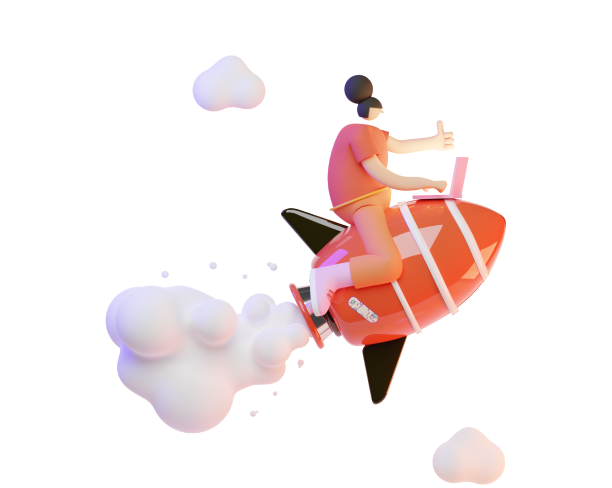
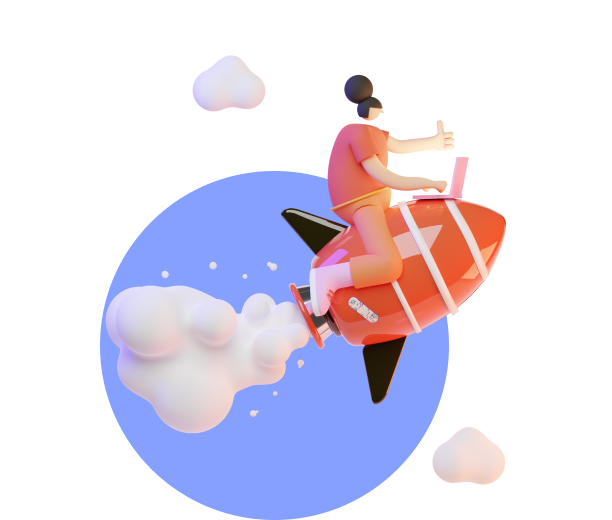
Add files via upload

diff --git a/task/FINAL PROJECT/styles/style.css b/task/FINAL PROJECT/styles/style.css
@@ -27,6 +27,9 @@ header {
     align-items: center;
     padding: 28px 0;
     
+   
+    
+    
 }
 .header-menu{
     display: none;
@@ -144,12 +147,55 @@ header {
     padding: 24px 0;
 }
 
+.search-form {
+    width: 300px;
+    position: relative;
+    
+}
+.search {
+    border:none;
+    float: left;
+    width: 100%;
+    border-radius: 100px;
+    padding: 32px;
+    height: 72px;
+}
+.button-search {
+    border:none;
+    background: linear-gradient(180deg, #FFC27A 0%, #FFA337 100%);
+    border-radius: 100px;
+    position: absolute;
+    right: 0;
+    width: 72px;
+    height: 72px;
+}
+.button-search:hover {
+    background: linear-gradient(180deg, #FFB0BA 0%, #F9475D 100%);;
+    cursor:pointer;
+}
+
+
+
+
+
+
+
+
+
+
+
+
+
+
+
+
+
 
 .main-wrap img {
-    width: 300px;
-    height: 300px;
-    margin-bottom: 30px;
-    margin-top: -70px;
+    width: 350px;
+    height: 270px;
+    margin-bottom: 50px;
+    
 }
 form {
     display: flex;
@@ -213,6 +259,8 @@ span{
     display: flex;
     column-gap: 24px;
     overflow: scroll;
+    padding-left: 10px;
+    margin-bottom: 50px;
     
 }
 
@@ -227,8 +275,7 @@ span{
     color: black;
     box-shadow:1px 1px 10px gray,
     inset 0px -1px 1px gray;
-    margin-top: 50px;
-    margin-bottom: 100px;
+    margin-top: 50px;  
     position: relative;
 }
 
@@ -344,6 +391,7 @@ figcaption {
     box-shadow:1px 1px 10px gray,
     inset 0px -1px 1px gray;
     margin-top: 50px;
+    margin-bottom: 10px;
     position: relative;
 
 }
@@ -362,6 +410,8 @@ figcaption {
     display: flex;
     column-gap: 24px;
     overflow: scroll;
+    padding-left: 10px;
+    margin-bottom: 50px;
     
 }
 
@@ -377,6 +427,8 @@ figcaption {
     display: flex;
     flex-wrap: wrap;
     row-gap: 10px;
+    margin-bottom: 50px;
+    
 
 }
 
@@ -389,6 +441,7 @@ figcaption {
     width:400px;
     height: 286px;
     margin: 0 auto;
+    
     
     
 
@@ -409,6 +462,30 @@ figcaption {
     align-items: center;
     column-gap: 10px;
 }
+
+.join {
+    margin-top: 50px;
+    display: flex;
+    flex-direction: column;   
+    padding-bottom: 50px;
+    text-align: center;
+}
+.join p:nth-of-type(1) {
+    font-size: 24px;
+
+}
+.join p:nth-of-type(2) {
+    font-size: 16px;
+    padding: 24px 0;
+
+}
+.join img {
+    width: 320px;
+    height: 320px;
+}
+
+
+
 
 
 
@@ -482,6 +559,7 @@ figcaption {
 
     .content img {
         margin-left: 0px;
+        
     }
 
 
@@ -492,9 +570,18 @@ figcaption {
         display: none;
     }
     .header-menu nav a{
+        padding: 0 10px;
+        margin: 0 10px;
         color:white;
         text-decoration: none;
-        padding-left: 48px;
+        
+    }
+    .header-menu nav a:hover {
+        border-width: 0 0 1px 0;
+        border-color: #FFA337;
+        border-style: solid;
+        transition: .5s ease;
+        
     }
     
     
@@ -511,6 +598,11 @@ figcaption {
         padding:0 8px;
     
     }
+    .logIn:hover {
+        cursor: pointer;
+        color: #FFA337;
+
+    }
     .signUp {
         display: flex;
         align-items: center;
@@ -524,8 +616,23 @@ figcaption {
         margin-left: 24px;
     
     }
+    .signUp:hover {
+        background: linear-gradient(180deg, #FFB0BA 0%, #F9475D 100%);;
+        cursor:pointer;
+
+    }
+
+
+
+
+
     .burger-icon {
         display: none;
+    }
+    .search-form {
+        width: 648px;
+        position: relative;
+        
     }
 
 
@@ -535,13 +642,16 @@ figcaption {
         flex-direction: row;
         align-items: center;
         text-align: left;
+        padding-top: 100px;
+        padding-bottom: 248px;
+        
         
         
         
     }
     .title {
         display: block;
-        margin-bottom: 140px;
+        padding-bottom: 100px;
         
         
         
@@ -568,10 +678,8 @@ figcaption {
         
     }
     .main-wrap img {
-        width: 638px;
-        height: 638px;
-        margin-bottom: 248px;
-        
+        width: auto;
+        height: 500px;
     }
 
     form {
@@ -631,10 +739,13 @@ figcaption {
         display: flex;
         column-gap: 24px;
         overflow: hidden;
+        padding-left: 0px;
+        margin-bottom: 40px;
+        
         
     }
     .course-block {
-        margin-bottom: 0;
+        margin-bottom: 10px;
     }
     .scroll {
         display: block;
@@ -671,6 +782,9 @@ figcaption {
         display: flex;
         column-gap: 24px;
         overflow: hidden;
+        padding-left: 0px;
+       
+        
         
     }
     .instructor h1:nth-child(1){
@@ -682,6 +796,9 @@ figcaption {
         font-weight: 400;
         font-size: 20px  ;
         text-align: left;
+    }
+    .instructor-block {
+
     }
    
 
@@ -699,11 +816,27 @@ figcaption {
     
     
     }
+    .join {
+        margin-top: 50px;
+        display: flex;   
+        padding-bottom: 50px;
+        text-align: center;
+    }
+    
 
 
 
   
-   
+   .join-container {
+    display: flex;
+    flex-direction: row-reverse;
+   }
+
+   .join img {
+    width: 612px;
+    height: 520px;
+}
+  
 
 
 }

diff --git a/task/FINAL PROJECT/index.html b/task/FINAL PROJECT/index.html
@@ -4,6 +4,7 @@
         <meta charset="utf-8"/>
         <meta name="viewport" content="width=device-width, initial-scale=1" />
         <link rel="stylesheet" href="styles/style.css"/>
+        
     </head>
     <body>
         <header>
@@ -53,14 +54,16 @@
                         from 300 Instructors 
                         & Institutions</h1>
                         <p>Various versions have evolved over the years, sometimes by accident</p>  
-                        <form action="" method="get">
-                            <input name="s" placeholder="What do want to learn?" type="search">
-                            <button type="submit">
-                                
-                            </button>
-                        </form> 
+                        <div class="search-form">
+                            <form action="" method="get">
+                                <input name="s" placeholder="What do want to learn?" type="search" class="search">
+                                <button type="submit" class="button-search" style="color: white;">
+                                    o 
+                                </button>
+                            </form> 
+                        </div>
                     </div>
-                    <img src="images/main-photo.png">
+                    <img src="images/main-photo1.png">
                 </div>
             </div>
         </div>
@@ -404,6 +407,21 @@
                     <img src="images/icons/Ellipse_nota.png" alt="">
                     <img src="images/icons/Ellipse_nota.png" alt="">
                     
+                </div>
+            </div>
+        </div>
+        <div class="join">
+            <div class="container">
+                <div class="join-container">
+                    <div class="block-title join-text">
+                        <h1>Join <span>World's largest</span> learning platform today</h1>
+                        <p>Start learning by registering for free</p>
+                        <p>Ut pharetra ipsum nec leo blandit, sit amet tincidunt eros pharetra. Nam sed imperdiet turpis. In hac habitasse platea dictumst. 
+                        Praesent nulla massa, hendrerit vestibulum gravida in, feugiat auctor felis.
+                        </p>
+                    </div>
+    
+                    <img src="images/main_end_photo.png">
                 </div>
             </div>
         </div>
